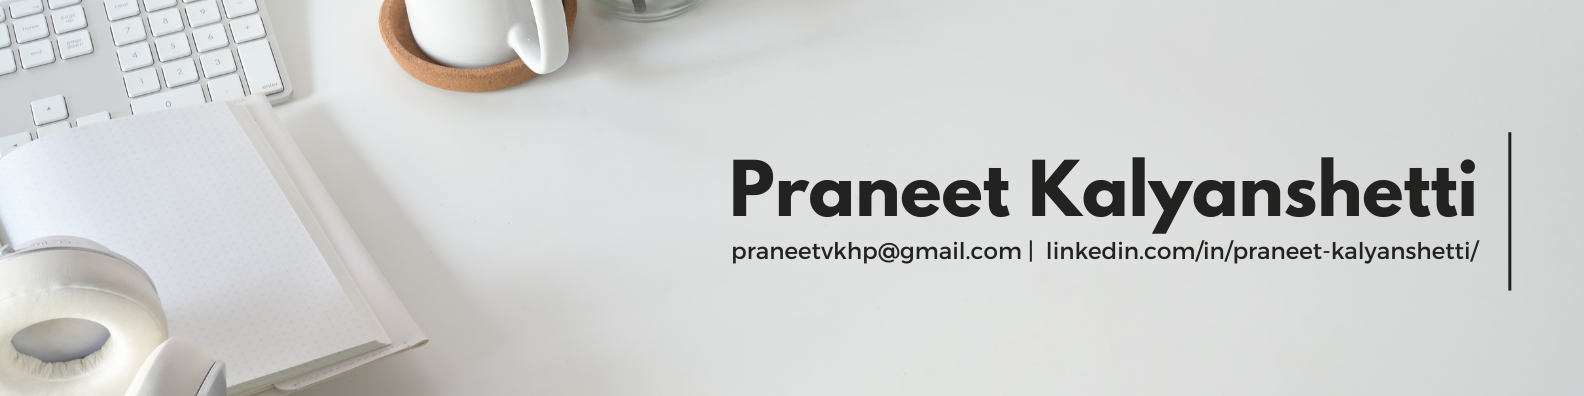
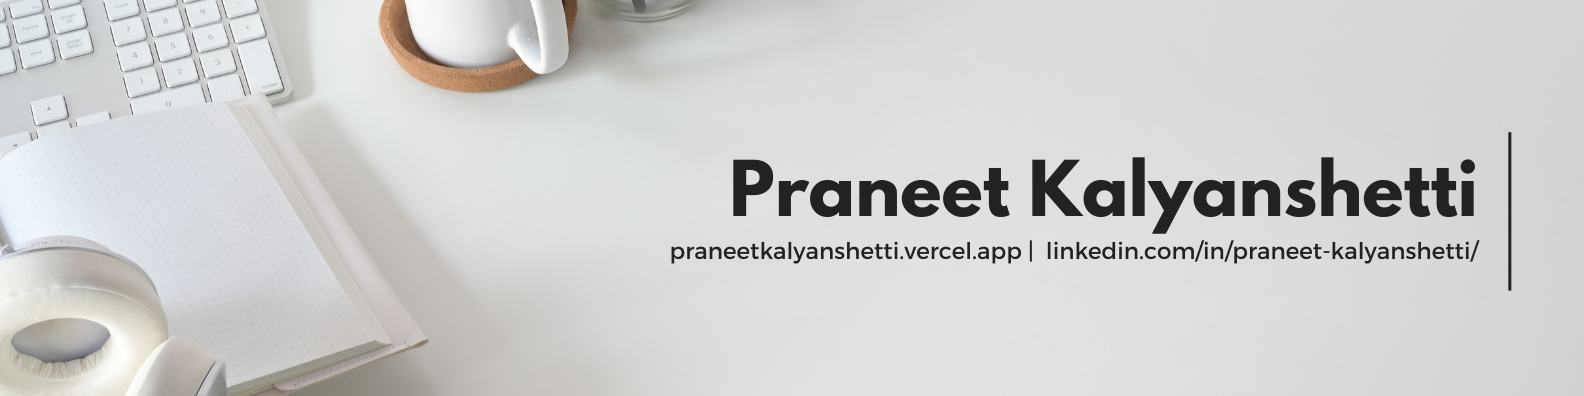
Profile README updated

Changed region(s): [[0.4021, 0.6061, 0.6496, 0.6667]]

diff --git a/README.md b/README.md
@@ -1,19 +1,42 @@
 ![MasterHead](assets/forGithub.png)
-<h1 align="center">Hi Devs!👋 I'm Praneet Kalyanshetti 🍁</h1>
-<h3 align="center">A Passionate Tech Enthusiast and a CSE Undergrad.</h3> 
+<h1 align="center">Hi Devs👋, I'm Praneet Kalyanshetti</h1>
+<h3 align="center">A Passionate Computer Science Undergrad from India.</h3>
 <div style="margin-top: 50px;">
     <img align="right" alt="Coding" width="400" src="https://cdn.dribbble.com/users/1162077/screenshots/3848914/programmer.gif">
 </div>
 
 # 💫 About Me:
-🔭 I’m currently working on developing projects in the Generative AI domain<br><br>🌱 I’m currently involved with Machine Learning.<br><br>👤 I'm open for full stack development projects.<br><br>📫 How to reach me **praneetkalyanshetti@gmail.com**<br><br>😁 Fun Fact: My superpower? Turning coffee into code. ☕➡💻
+
+<p align="left"> <a href="https://github.com/ryo-ma/github-profile-trophy"><img src="https://github-profile-trophy.vercel.app/?username=praneet2126" alt="praneet2126" /></a> </p>
+
+- 🔭 I’m currently working on **Deep Learning Based Skin Condition Detection**
+
+- 🌱 I’m currently learning **Generative AI, Computer Vision**
+
+- 👯 I’m ready to collaborate on **any project**
+
+- 👨💻 Visit my portfolio [https://praneetkalyanshetti.vercel.app/](https://praneetkalyanshetti.vercel.app/)
+
+- 💬 Ask me about **React, Machine Learning, Git**
+
+- 📫 How to reach me **praneetkalyanshetti@gmail.com**
+
+- ⚡ My speciality? **Turning my coffee into code!**
 
 
 ## 🌐 Socials:
-[![Instagram](https://img.shields.io/badge/Instagram-%23E4405F.svg?logo=Instagram&logoColor=white)](https://instagram.com/_pk_2126) [![LinkedIn](https://img.shields.io/badge/LinkedIn-%230077B5.svg?logo=linkedin&logoColor=white)](https://linkedin.com/in/praneet-kalyanshetti) [![Reddit](https://img.shields.io/badge/Reddit-%23FF4500.svg?logo=Reddit&logoColor=white)](https://reddit.com/user/PK_2126) [![YouTube](https://img.shields.io/badge/YouTube-%23FF0000.svg?logo=YouTube&logoColor=white)](https://youtube.com/@praneetkalyanshetti) 
+<p align="left">
+<a href="https://linkedin.com/in/praneet-kalyanshetti" target="blank"><img align="center" src="https://raw.githubusercontent.com/rahuldkjain/github-profile-readme-generator/master/src/images/icons/Social/linked-in-alt.svg" alt="praneet-kalyanshetti" height="30" width="40" /></a>
+<a href="https://instagram.com/_pk_2126" target="blank"><img align="center" src="https://raw.githubusercontent.com/rahuldkjain/github-profile-readme-generator/master/src/images/icons/Social/instagram.svg" alt="_pk_2126" height="30" width="40" /></a>
+<a href="https://medium.com/@praneetvkhp" target="blank"><img align="center" src="https://raw.githubusercontent.com/rahuldkjain/github-profile-readme-generator/master/src/images/icons/Social/medium.svg" alt="@praneetvkhp" height="30" width="40" /></a>
+<a href="https://www.youtube.com/c/praneet kalyanshetti" target="blank"><img align="center" src="https://raw.githubusercontent.com/rahuldkjain/github-profile-readme-generator/master/src/images/icons/Social/youtube.svg" alt="praneet kalyanshetti" height="30" width="40" /></a>
+<a href="https://www.leetcode.com/praneetvkhp" target="blank"><img align="center" src="https://raw.githubusercontent.com/rahuldkjain/github-profile-readme-generator/master/src/images/icons/Social/leet-code.svg" alt="praneetvkhp" height="30" width="40" /></a>
+</p>
 
 # 💻 Tech Stack:
-![C](https://img.shields.io/badge/c-%2300599C.svg?style=for-the-badge&logo=c&logoColor=white) ![C++](https://img.shields.io/badge/c++-%2300599C.svg?style=for-the-badge&logo=c%2B%2B&logoColor=white) ![CSS3](https://img.shields.io/badge/css3-%231572B6.svg?style=for-the-badge&logo=css3&logoColor=white) ![Dart](https://img.shields.io/badge/dart-%230175C2.svg?style=for-the-badge&logo=dart&logoColor=white) ![HTML5](https://img.shields.io/badge/html5-%23E34F26.svg?style=for-the-badge&logo=html5&logoColor=white) ![Java](https://img.shields.io/badge/java-%23ED8B00.svg?style=for-the-badge&logo=openjdk&logoColor=white) ![JavaScript](https://img.shields.io/badge/javascript-%23323330.svg?style=for-the-badge&logo=javascript&logoColor=%23F7DF1E) ![Python](https://img.shields.io/badge/python-3670A0?style=for-the-badge&logo=python&logoColor=ffdd54) ![PowerShell](https://img.shields.io/badge/PowerShell-%235391FE.svg?style=for-the-badge&logo=powershell&logoColor=white) ![Rust](https://img.shields.io/badge/rust-%23000000.svg?style=for-the-badge&logo=rust&logoColor=white) ![Bootstrap](https://img.shields.io/badge/bootstrap-%238511FA.svg?style=for-the-badge&logo=bootstrap&logoColor=white) ![Express.js](https://img.shields.io/badge/express.js-%23404d59.svg?style=for-the-badge&logo=express&logoColor=%2361DAFB) ![Flutter](https://img.shields.io/badge/Flutter-%2302569B.svg?style=for-the-badge&logo=Flutter&logoColor=white) ![jQuery](https://img.shields.io/badge/jquery-%230769AD.svg?style=for-the-badge&logo=jquery&logoColor=white) ![NodeJS](https://img.shields.io/badge/node.js-6DA55F?style=for-the-badge&logo=node.js&logoColor=white) ![Nodemon](https://img.shields.io/badge/NODEMON-%23323330.svg?style=for-the-badge&logo=nodemon&logoColor=%BBDEAD) ![React](https://img.shields.io/badge/react-%2320232a.svg?style=for-the-badge&logo=react&logoColor=%2361DAFB) ![Vite](https://img.shields.io/badge/vite-%23646CFF.svg?style=for-the-badge&logo=vite&logoColor=white) ![Firebase](https://img.shields.io/badge/firebase-a08021?style=for-the-badge&logo=firebase&logoColor=ffcd34) ![MongoDB](https://img.shields.io/badge/MongoDB-%234ea94b.svg?style=for-the-badge&logo=mongodb&logoColor=white) ![MySQL](https://img.shields.io/badge/mysql-4479A1.svg?style=for-the-badge&logo=mysql&logoColor=white) ![Canva](https://img.shields.io/badge/Canva-%2300C4CC.svg?style=for-the-badge&logo=Canva&logoColor=white) ![Git](https://img.shields.io/badge/git-%23F05033.svg?style=for-the-badge&logo=git&logoColor=white) ![GitHub](https://img.shields.io/badge/github-%23121011.svg?style=for-the-badge&logo=github&logoColor=white) ![Shell Script](https://img.shields.io/badge/shell_script-%23121011.svg?style=for-the-badge&logo=gnu-bash&logoColor=white)
+<h3 align="left">Languages and Tools:</h3>
+<p align="left"> <a href="https://developer.android.com" target="_blank" rel="noreferrer"> <img src="https://raw.githubusercontent.com/devicons/devicon/master/icons/android/android-original-wordmark.svg" alt="android" width="40" height="40"/> </a> <a href="https://www.gnu.org/software/bash/" target="_blank" rel="noreferrer"> <img src="https://www.vectorlogo.zone/logos/gnu_bash/gnu_bash-icon.svg" alt="bash" width="40" height="40"/> </a> <a href="https://getbootstrap.com" target="_blank" rel="noreferrer"> <img src="https://raw.githubusercontent.com/devicons/devicon/master/icons/bootstrap/bootstrap-plain-wordmark.svg" alt="bootstrap" width="40" height="40"/> </a> <a href="https://www.cprogramming.com/" target="_blank" rel="noreferrer"> <img src="https://raw.githubusercontent.com/devicons/devicon/master/icons/c/c-original.svg" alt="c" width="40" height="40"/> </a> <a href="https://www.chartjs.org" target="_blank" rel="noreferrer"> <img src="https://www.chartjs.org/media/logo-title.svg" alt="chartjs" width="40" height="40"/> </a> <a href="https://www.w3schools.com/cpp/" target="_blank" rel="noreferrer"> <img src="https://raw.githubusercontent.com/devicons/devicon/master/icons/cplusplus/cplusplus-original.svg" alt="cplusplus" width="40" height="40"/> </a> <a href="https://www.w3schools.com/css/" target="_blank" rel="noreferrer"> <img src="https://raw.githubusercontent.com/devicons/devicon/master/icons/css3/css3-original-wordmark.svg" alt="css3" width="40" height="40"/> </a> <a href="https://dart.dev" target="_blank" rel="noreferrer"> <img src="https://www.vectorlogo.zone/logos/dartlang/dartlang-icon.svg" alt="dart" width="40" height="40"/> </a> <a href="https://www.docker.com/" target="_blank" rel="noreferrer"> <img src="https://raw.githubusercontent.com/devicons/devicon/master/icons/docker/docker-original-wordmark.svg" alt="docker" width="40" height="40"/> </a> <a href="https://expressjs.com" target="_blank" rel="noreferrer"> <img src="https://raw.githubusercontent.com/devicons/devicon/master/icons/express/express-original-wordmark.svg" alt="express" width="40" height="40"/> </a> <a href="https://www.figma.com/" target="_blank" rel="noreferrer"> <img src="https://www.vectorlogo.zone/logos/figma/figma-icon.svg" alt="figma" width="40" height="40"/> </a> <a href="https://firebase.google.com/" target="_blank" rel="noreferrer"> <img src="https://www.vectorlogo.zone/logos/firebase/firebase-icon.svg" alt="firebase" width="40" height="40"/> </a> <a href="https://flutter.dev" target="_blank" rel="noreferrer"> <img src="https://www.vectorlogo.zone/logos/flutterio/flutterio-icon.svg" alt="flutter" width="40" height="40"/> </a> <a href="https://www.framer.com/" target="_blank" rel="noreferrer"> <img src="https://www.vectorlogo.zone/logos/framer/framer-icon.svg" alt="framer" width="40" height="40"/> </a> <a href="https://git-scm.com/" target="_blank" rel="noreferrer"> <img src="https://www.vectorlogo.zone/logos/git-scm/git-scm-icon.svg" alt="git" width="40" height="40"/> </a> <a href="https://www.w3.org/html/" target="_blank" rel="noreferrer"> <img src="https://raw.githubusercontent.com/devicons/devicon/master/icons/html5/html5-original-wordmark.svg" alt="html5" width="40" height="40"/> </a> <a href="https://www.java.com" target="_blank" rel="noreferrer"> <img src="https://raw.githubusercontent.com/devicons/devicon/master/icons/java/java-original.svg" alt="java" width="40" height="40"/> </a> <a href="https://developer.mozilla.org/en-US/docs/Web/JavaScript" target="_blank" rel="noreferrer"> <img src="https://raw.githubusercontent.com/devicons/devicon/master/icons/javascript/javascript-original.svg" alt="javascript" width="40" height="40"/> </a> <a href="https://jestjs.io" target="_blank" rel="noreferrer"> <img src="https://www.vectorlogo.zone/logos/jestjsio/jestjsio-icon.svg" alt="jest" width="40" height="40"/> </a> <a href="https://www.linux.org/" target="_blank" rel="noreferrer"> <img src="https://raw.githubusercontent.com/devicons/devicon/master/icons/linux/linux-original.svg" alt="linux" width="40" height="40"/> </a> <a href="https://www.mathworks.com/" target="_blank" rel="noreferrer"> <img src="https://upload.wikimedia.org/wikipedia/commons/2/21/Matlab_Logo.png" alt="matlab" width="40" height="40"/> </a> <a href="https://www.mongodb.com/" target="_blank" rel="noreferrer"> <img src="https://raw.githubusercontent.com/devicons/devicon/master/icons/mongodb/mongodb-original-wordmark.svg" alt="mongodb" width="40" height="40"/> </a> <a href="https://www.mysql.com/" target="_blank" rel="noreferrer"> <img src="https://raw.githubusercontent.com/devicons/devicon/master/icons/mysql/mysql-original-wordmark.svg" alt="mysql" width="40" height="40"/> </a> <a href="https://nextjs.org/" target="_blank" rel="noreferrer"> <img src="https://cdn.worldvectorlogo.com/logos/nextjs-2.svg" alt="nextjs" width="40" height="40"/> </a> <a href="https://nodejs.org" target="_blank" rel="noreferrer"> <img src="https://raw.githubusercontent.com/devicons/devicon/master/icons/nodejs/nodejs-original-wordmark.svg" alt="nodejs" width="40" height="40"/> </a> <a href="https://opencv.org/" target="_blank" rel="noreferrer"> <img src="https://www.vectorlogo.zone/logos/opencv/opencv-icon.svg" alt="opencv" width="40" height="40"/> </a> <a href="https://pandas.pydata.org/" target="_blank" rel="noreferrer"> <img src="https://raw.githubusercontent.com/devicons/devicon/2ae2a900d2f041da66e950e4d48052658d850630/icons/pandas/pandas-original.svg" alt="pandas" width="40" height="40"/> </a> <a href="https://www.postgresql.org" target="_blank" rel="noreferrer"> <img src="https://raw.githubusercontent.com/devicons/devicon/master/icons/postgresql/postgresql-original-wordmark.svg" alt="postgresql" width="40" height="40"/> </a> <a href="https://www.python.org" target="_blank" rel="noreferrer"> <img src="https://raw.githubusercontent.com/devicons/devicon/master/icons/python/python-original.svg" alt="python" width="40" height="40"/> </a> <a href="https://pytorch.org/" target="_blank" rel="noreferrer"> <img src="https://www.vectorlogo.zone/logos/pytorch/pytorch-icon.svg" alt="pytorch" width="40" height="40"/> </a> <a href="https://reactjs.org/" target="_blank" rel="noreferrer"> <img src="https://raw.githubusercontent.com/devicons/devicon/master/icons/react/react-original-wordmark.svg" alt="react" width="40" height="40"/> </a> <a href="https://www.rust-lang.org" target="_blank" rel="noreferrer"> <img src="https://raw.githubusercontent.com/devicons/devicon/master/icons/rust/rust-plain.svg" alt="rust" width="40" height="40"/> </a> <a href="https://scikit-learn.org/" target="_blank" rel="noreferrer"> <img src="https://upload.wikimedia.org/wikipedia/commons/0/05/Scikit_learn_logo_small.svg" alt="scikit_learn" width="40" height="40"/> </a> <a href="https://seaborn.pydata.org/" target="_blank" rel="noreferrer"> <img src="https://seaborn.pydata.org/_images/logo-mark-lightbg.svg" alt="seaborn" width="40" height="40"/> </a> <a href="https://spring.io/" target="_blank" rel="noreferrer"> <img src="https://www.vectorlogo.zone/logos/springio/springio-icon.svg" alt="spring" width="40" height="40"/> </a> <a href="https://tailwindcss.com/" target="_blank" rel="noreferrer"> <img src="https://www.vectorlogo.zone/logos/tailwindcss/tailwindcss-icon.svg" alt="tailwind" width="40" height="40"/> </a> <a href="https://www.tensorflow.org" target="_blank" rel="noreferrer"> <img src="https://www.vectorlogo.zone/logos/tensorflow/tensorflow-icon.svg" alt="tensorflow" width="40" height="40"/> </a> <a href="https://www.typescriptlang.org/" target="_blank" rel="noreferrer"> <img src="https://raw.githubusercontent.com/devicons/devicon/master/icons/typescript/typescript-original.svg" alt="typescript" width="40" height="40"/> </a> </p>
+
 # 📊 GitHub Stats:
 ![](https://github-readme-stats.vercel.app/api?username=Praneet2126&theme=dark&hide_border=false&include_all_commits=false&count_private=false)
 ![](https://github-readme-stats.vercel.app/api/top-langs/?username=Praneet2126&theme=dark&hide_border=false&include_all_commits=false&count_private=false&layout=compact)
